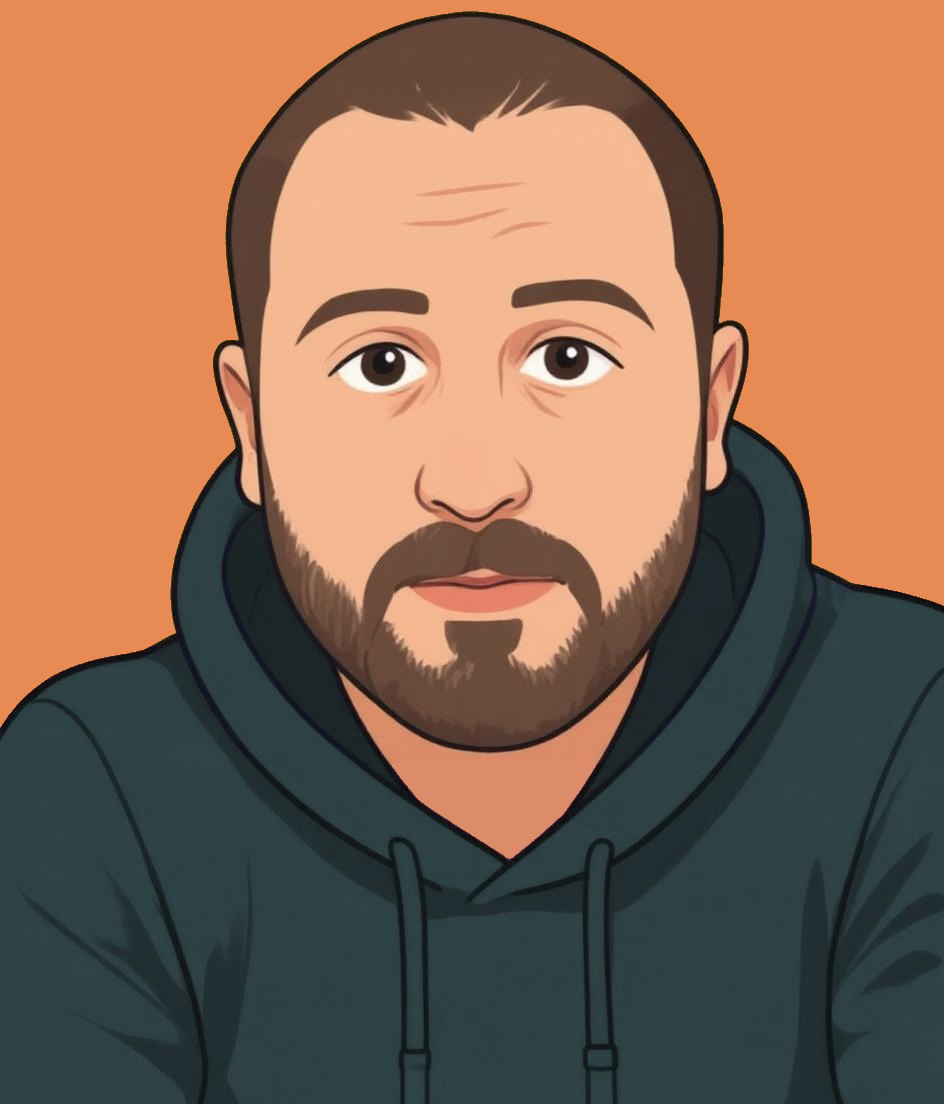
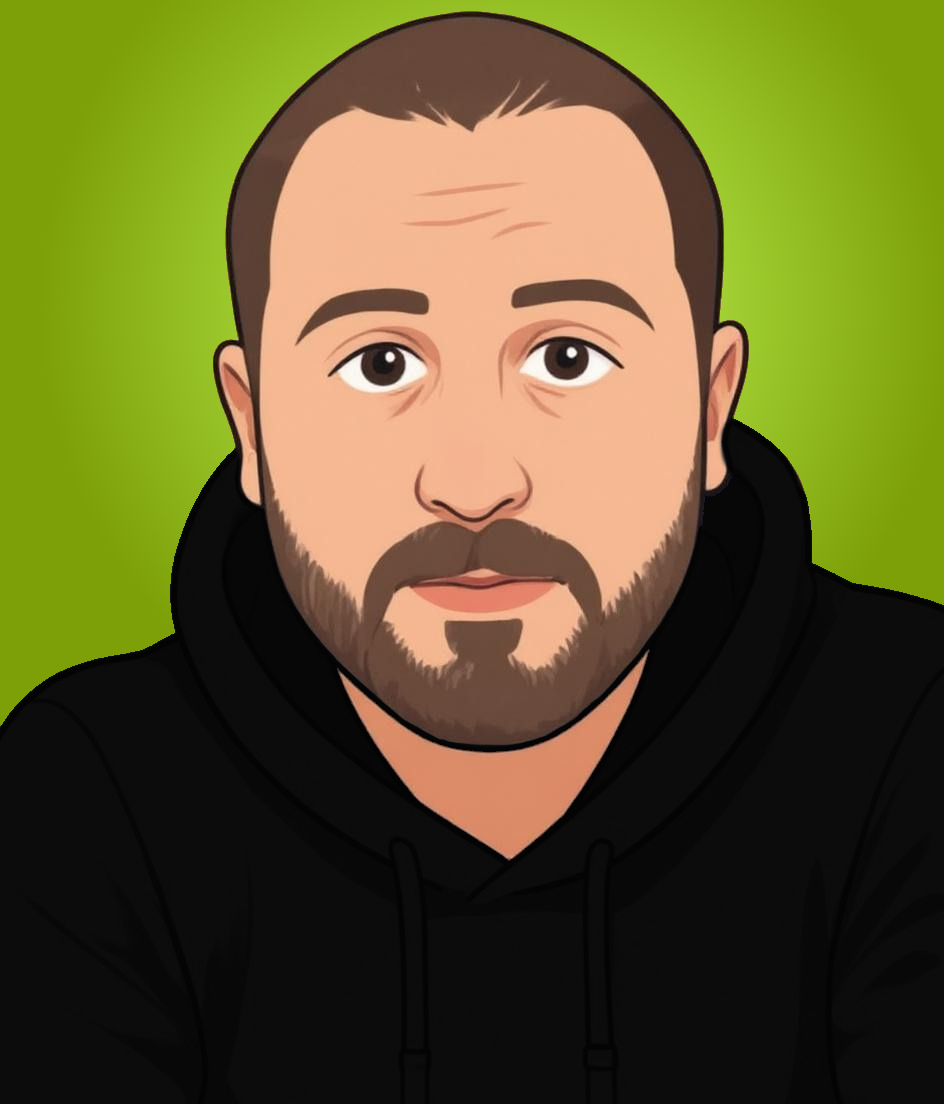
updated theme colors to be green and updated pfp to match

diff --git a/src/styles.css b/src/styles.css
@@ -36,7 +36,7 @@ code {
   --card-foreground: oklch(0.2101 0.0318 264.6645);
   --popover: oklch(1 0 0);
   --popover-foreground: oklch(0.2101 0.0318 264.6645);
-  --primary: oklch(0.6716 0.1368 48.513);
+  --primary: oklch(0.826 0.162 130);
   --primary-foreground: oklch(1 0 0);
   --secondary: oklch(0.536 0.0398 196.028);
   --secondary-foreground: oklch(1 0 0);
@@ -48,21 +48,21 @@ code {
   --destructive-foreground: oklch(0.9851 0 0);
   --border: oklch(0.9276 0.0058 264.5313);
   --input: oklch(0.9276 0.0058 264.5313);
-  --ring: oklch(0.6716 0.1368 48.513);
+  --ring: oklch(0.826 0.162 130);
   --chart-1: oklch(0.594 0.0443 196.0233);
-  --chart-2: oklch(0.7214 0.1337 49.9802);
+  --chart-2: oklch(0.826 0.162 130);;
   --chart-3: oklch(0.8721 0.0864 68.5474);
   --chart-4: oklch(0.6268 0 0);
   --chart-5: oklch(0.683 0 0);
   --radius: 0.75rem;
   --sidebar: oklch(0.967 0.0029 264.5419);
   --sidebar-foreground: oklch(0.2101 0.0318 264.6645);
-  --sidebar-primary: oklch(0.6716 0.1368 48.513);
+  --sidebar-primary: oklch(0.826 0.162 130);
   --sidebar-primary-foreground: oklch(1 0 0);
   --sidebar-accent: oklch(1 0 0);
   --sidebar-accent-foreground: oklch(0.2101 0.0318 264.6645);
   --sidebar-border: oklch(0.9276 0.0058 264.5313);
-  --sidebar-ring: oklch(0.6716 0.1368 48.513);
+  --sidebar-ring: oklch(0.826 0.162 130);
   --font-sans: "Gantari", ui-sans-serif, system-ui, sans-serif;
   --font-serif: ui-serif, Georgia, serif;
   --font-mono: "JetBrains Mono", ui-monospace, monospace;
@@ -92,7 +92,7 @@ code {
   --card-foreground: oklch(0.8109 0 0);
   --popover: oklch(0.1797 0.0043 308.1928);
   --popover-foreground: oklch(0.8109 0 0);
-  --primary: oklch(0.7214 0.1337 49.9802);
+  --primary: oklch(0.826 0.162 130);;
   --primary-foreground: oklch(0.1797 0.0043 308.1928);
   --secondary: oklch(0.594 0.0443 196.0233);
   --secondary-foreground: oklch(0.1797 0.0043 308.1928);
@@ -104,20 +104,20 @@ code {
   --destructive-foreground: oklch(0.1797 0.0043 308.1928);
   --border: oklch(0.252 0 0);
   --input: oklch(0.252 0 0);
-  --ring: oklch(0.7214 0.1337 49.9802);
+  --ring: oklch(0.826 0.162 130);
   --chart-1: oklch(0.594 0.0443 196.0233);
-  --chart-2: oklch(0.7214 0.1337 49.9802);
+  --chart-2: oklch(0.826 0.162 130);;
   --chart-3: oklch(0.8721 0.0864 68.5474);
   --chart-4: oklch(0.6268 0 0);
   --chart-5: oklch(0.683 0 0);
   --sidebar: oklch(0.1822 0 0);
   --sidebar-foreground: oklch(0.8109 0 0);
-  --sidebar-primary: oklch(0.7214 0.1337 49.9802);
+  --sidebar-primary: oklch(0.826 0.162 130);;
   --sidebar-primary-foreground: oklch(0.1797 0.0043 308.1928);
   --sidebar-accent: oklch(0.3211 0 0);
   --sidebar-accent-foreground: oklch(0.8109 0 0);
   --sidebar-border: oklch(0.252 0 0);
-  --sidebar-ring: oklch(0.7214 0.1337 49.9802);
+  --sidebar-ring: oklch(0.826 0.162 130);;
   --radius: 0.75rem;
   --font-sans: "Gantari", ui-sans-serif, system-ui, sans-serif;
   --font-serif: ui-serif, Georgia, serif;

diff --git a/src/components/Header.tsx b/src/components/Header.tsx
@@ -18,7 +18,7 @@ export default function Header() {
   };
 
   return (
-    <header className="fixed top-0 w-full z-50 bg-background shadow-sm px-4 py-4 flex justify-between items-center max-w-7xl mx-auto">
+    <header className="fixed top-0 w-full z-50 bg-background  px-4 py-4 flex justify-between items-center max-w-7xl mx-auto">
       <button onClick={() => handleNavClick("hero")} className="font-semibold flex flex-col text-sm cursor-pointer">
         <span>Cody</span>
         <span className="ml-4">Stine</span>
